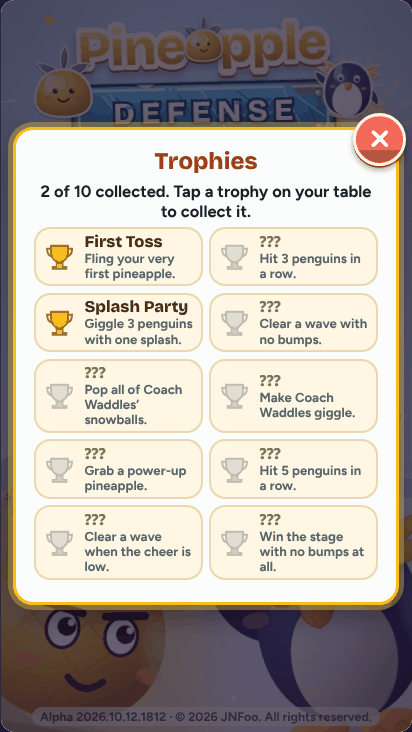
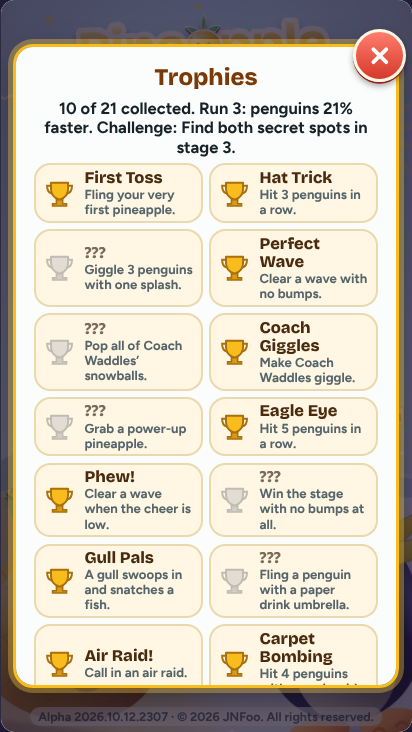
Update README, add changelog, refresh screenshots
README now describes all five stages, combos, the new shop upgrades, runs and
the run-end card, keys, and links the changelog and QA doc. New CHANGELOG.md
covers every version. Screenshots refreshed from the current build.

diff --git a/README.md b/README.md
@@ -6,7 +6,7 @@ A free, silly browser game for kids of all ages: flick pineapples at penguins wh
 
 **Play it:** <https://jnfoo.github.io/pineapple-defense/> (one small file, works offline, no ads, no tracking)
 
-**Status:** early alpha. Stage 1 (Sandy Snack Shore, 8 waves and a boss) is playable. The pictures below are placeholders from the current build; the final art will replace them.
+**Status:** alpha. All five stages are playable, each with its own scenery, lanes, secret spots and Champion. Latest version: 2026.10.12.2307 (see the [changelog](CHANGELOG.md)). The art is still being polished.
 
 <p align="center">
 <img src="docs/img/title.png" alt="Title screen" width="190">
@@ -22,18 +22,25 @@ A free, silly browser game for kids of all ages: flick pineapples at penguins wh
 
 - Flick up from the bottom of the screen toward a penguin. On a touchpad or mouse, swipe up over the game.
 - Penguins that reach your fruit stand make it wobble and lower the **Cheer** meter (the tall bar on the right). Clear waves to cheer it back up.
-- Pick **Classic** (quick, one penguin) or **Lobber** (slower, splashes nearby penguins) at the bottom left.
-- Tap the **pickups** that appear on the table: Zippy, Mega, Cheer up and Brrr give short boosts, and trophies give Golden Pineapples.
-- Spend Golden Pineapples in the **Shop** on the title screen.
-- Calm mode (on the title screen) turns off bobbing, confetti and other motion.
+- Pick **Classic** (quick, free) or **Lobber** (slower, splashes nearby penguins, costs 2 Golden Pineapples a throw) at the bottom left. Mega pineapples (a pickup) splash the most and cost 3.
+- Golden Pineapples are your bank, shown at the top. Every penguin pays out as you dispatch it: Rockhopper 1, Adélie 3, Gentoo 6, Champion 12.
+- At the end of each stage a **Champion** waits with shields, dodges and helpers. Penguins walk around Champions rather than through them.
+- Keep an eye out for **fish on parachutes**. A penguin that eats one levels up (Rockhopper, Adélie, Gentoo) and gets faster and tougher, but you can still hit it at any moment.
+- Tap the **pickups** on your table: Zippy (fast throws), Mega (splash), Cheer up and Toasty (sleepy, slow penguins). Trophies pay Golden Pineapples. Each stage also hides one secret tap spot on each side.
+- **Combos:** every hit within a second and a half chains, whether it comes from your slingshot, the Auto Slingshot or one big splash. The call gets louder as the chain grows.
+- **Shop** (title screen): Auto Slingshot, Faster Fling, Better Pineapples, **Gull Pals** (gulls snatch the falling fish), **Paper Umbrellas** (a last resort that flings a penguin about to knock the cheer down) and **Air Raid** (a row of pineapples falls across the lanes where the most penguins are; press the Raid button or R).
+- **Runs:** clearing all five stages is a run. Each finished run makes penguins and Champions 10% faster (up to double speed) and brings a new challenge and more trophies. Losing a wave and trying again keeps your streak; quitting the run and starting over from stage 1 resets it. After a run you can **Save and restart** or **Reset completely** (trophies always stay).
+- Keys: P or Esc pauses, R calls the Air Raid, 1 and 2 pick the pineapple. Calm mode (title screen) turns off bobbing, confetti and other motion.
 
 ## Project
 
 - Design brief: [docs/pineapple-defense-design.md](docs/pineapple-defense-design.md)
+- Changelog: [CHANGELOG.md](CHANGELOG.md)
+- QA and build process: [docs/qa-process.md](docs/qa-process.md)
 - Build: `python3 build.py` makes the single-file `index.html` from `src/` (needs `fonttools`). Don't edit `index.html` by hand.
 - Packed single file: `python3 tools/pack.py` makes one smaller, self-unpacking `.html` in `dist/`.
-- Checks: `python3 -I tools/qa.py` (add `--ff` for Firefox). Release: `python3 -I tools/release.py`. See `docs/qa-process.md`.
-- Tested in Chromium. Targets: Android Chrome, Firefox and Chromium-based desktop browsers.
+- Checks: `python3 -I tools/qa.py` (add `--ff` for Firefox). Release: `python3 -I tools/release.py`.
+- Tested in Chromium and Firefox 158. Targets: Android Chrome, Firefox and Chromium-based desktop browsers.
 
 Copyright © 2026 JNFoo. All rights reserved.
 Fonts: Bricolage Grotesque and Figtree (SIL OFL 1.1, see `src/fonts/`). `sticker-text` from JS-modules (MIT, see header in `src/vendor/`). LZMA decoder: lzma-js (MIT, see `src/vendor/lzma/`).

diff --git a/CHANGELOG.md b/CHANGELOG.md
@@ -1,0 +1,37 @@
+# Changelog
+
+Pineapple Defense. Version stamps use `year.month.day.HHMM` (US Eastern). Copyright (c) 2026 JNFoo. All rights reserved.
+
+## 2026.10.12.2307
+- Run-end card: **Save and restart** keeps upgrades, credits, trophies and the speed streak; **Reset completely** (with a confirm step) erases upgrades, credits, streak and progress, and keeps trophies.
+- One-command QA (`tools/qa.py`) and release (`tools/release.py`): time is fast-forwarded in one browser session, random-action fuzzing, layout checks at four screen sizes, Firefox option, cache that skips unchanged builds. See `docs/qa-process.md`.
+- Fixes found by the audit: the Air Raid line now lands mid-field when no penguins are near; test hooks corrected.
+
+## 2026.10.12.2253
+- New shop upgrades: **Gull Pals** (3 tiers), **Paper Umbrellas** (3 tiers, an automatic last resort), **Air Raid** (2 tiers, button under the Cheer bar or the R key).
+- **Combos:** calls grow with the chain (Double up to LEGENDARY) with rays, rings, confetti and shake. Slingshot, Auto Slingshot, splash and raid hits chain together; mixed chains are called Team.
+- **Runs:** every finished run makes penguins and Champions 10% faster (capped at double speed); one new challenge per run (+100 Golden Pineapples); 11 new trophies (21 in all).
+- Pickups and trophies on the table arrive with rings, a spinning halo and sparkles.
+- Redrawn slingshot (wrapped grip, brass caps, shaded fork, stitched pouch); the projectile now shows its back instead of a face.
+- HUD: one bank counter (the duplicate stage counter is gone) and a trophy count with an icon.
+
+## 2026.10.12.2223
+- Harder, more distinct Champions; Champion health bar on the left edge; new lane art for every stage; secret tap spots; Toasty! replaces Brrr!; P pauses.
+
+## 2026.10.12.2205
+- Live bank and per-throw costs; Champion lane blocking; parachute fish and evolving penguins.
+
+## 2026.10.12.2112
+- Five stages of five waves, with stage scenery and five Champions.
+
+## 2026.10.12.1918 to 2026.10.12.2020
+- More top counters, vertical Cheer meter, labeled pineapples and pickups, pickup guide, README pictures, and a long run of polish and stability fixes.
+
+## 2026.10.12.1726 to 2026.10.12.1752
+- Tall 9:16 stage, table power-ups and trophies, Auto Slingshot, animated scenery, redrawn sign, compact dialogs, packed single-file build tool, new logo.
+
+## 2026.10.12.1655 to 2026.10.12.1712
+- First playable stage 1: five lanes, waves, Rockhopper and Adélie, Classic and Lobber pineapples, Cheer meter, pause, end cards, Calm mode, saves with Continue, flick throwing, Coach Waddles.
+
+## 2026.10.12.1556
+- First title screen, logo and original pineapple and Rockhopper sprites.

diff --git a/docs/pineapple-defense-design.md b/docs/pineapple-defense-design.md
@@ -265,7 +265,6 @@ The game reserves slots for hidden areas and hidden enemies, plus unlock rules. 
 - Exact item list and point prices for each shop slot.
 - Art for the shop screen and the other pineapple types (Cluster, Bowling Pine, Juice Bomb, Rail Gun).
 - Flick feel and cursor-swipe sensitivity tuning from real phone and touchpad testing.
-- Stages 2 to 5 and their Champions.
 
 ## Title screen and logo (alpha 2026.10.12.1556)
 Built and playable in `index.html`. It is made from `src/` by `build.py` (never edit `index.html` by hand).
